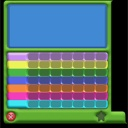
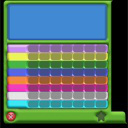
Lots of Aesthetic Tweaks (See Desc)
* Zap gags no longer intersect
* Shock animations for cogs
* Fixed toon details panel
* Fixed quota text priority in SuitPage

diff --git a/toontown/battle/MovieZap.py b/toontown/battle/MovieZap.py
@@ -251,7 +251,7 @@ def __doJoybuzzer(zap, delay, fShowStun):
     if hp > 0:
         tracks.append(__getSplashTrack(targetPoint, scale, tSprayStarts + dSprayScale, battle))
     if hp > 0 or delay <= 0:
-        tracks.append(__getSuitTrack(suit, tContact, tSuitDodges, hp, hpbonus, kbbonus, 'rake-react', died, leftSuits, rightSuits, battle, toon, fShowStun, revived=revived))
+        tracks.append(__getSuitTrack(suit, tContact, tSuitDodges, hp, hpbonus, kbbonus, 'shock', died, leftSuits, rightSuits, battle, toon, fShowStun, revived=revived))
     return tracks
 
 
@@ -307,7 +307,7 @@ def __doRug(zap, delay, fShowStun):
     if hp > 0:
         tracks.append(__getSplashTrack(targetPoint, scale, tSpray + dSprayScale, battle))
     if hp > 0 or delay <= 0:
-        tracks.append(__getSuitTrack(suit, tContact, tSuitDodges, hp, hpbonus, kbbonus, 'rake-react', died, leftSuits, rightSuits, battle, toon, fShowStun, revived=revived))
+        tracks.append(__getSuitTrack(suit, tContact, tSuitDodges, hp, hpbonus, kbbonus, 'shock', died, leftSuits, rightSuits, battle, toon, fShowStun, revived=revived))
     return tracks
 
 
@@ -367,7 +367,7 @@ def __doBalloon(zap, delay, fShowStun):
     if hp > 0:
         tracks.append(__getSplashTrack(targetPoint, 0.3, tSpray + dSprayScale, battle))
     if hp > 0 or delay <= 0:
-        tracks.append(__getSuitTrack(suit, tContact, tSuitDodges, hp, hpbonus, kbbonus, 'rake-react', died, leftSuits, rightSuits, battle, toon, fShowStun, revived=revived))
+        tracks.append(__getSuitTrack(suit, tContact, tSuitDodges, hp, hpbonus, kbbonus, 'shock', died, leftSuits, rightSuits, battle, toon, fShowStun, revived=revived))
     return tracks
 
 
@@ -396,7 +396,7 @@ def __doBattery(zap, delay, fShowStun):
     scale = 0.3
     tAppearDelay = 0.7
     dHoseHold = 0.7
-    midPos = Point3(0, 0, 0)
+    midPos = Point3(toon.getX(battle)*.5, 0, 0)
     runDur = 1
     tSprayDelay = 2
     tSpray = 1
@@ -425,7 +425,7 @@ def __doBattery(zap, delay, fShowStun):
     if hp > 0:
         tracks.append(__getSplashTrack(targetPoint, 0.4, 2.7, battle, splashHold=1.5))
     if hp > 0 or delay <= 0:
-        tracks.append(__getSuitTrack(suit, tContact, tSuitDodges, hp, hpbonus, kbbonus, 'rake-react', died, leftSuits, rightSuits, battle, toon, fShowStun, revived=revived))
+        tracks.append(__getSuitTrack(suit, tContact, tSuitDodges, hp, hpbonus, kbbonus, 'shock', died, leftSuits, rightSuits, battle, toon, fShowStun, revived=revived))
     return tracks
 
 
@@ -455,7 +455,7 @@ def __doTazer(zap, delay, fShowStun):
     scale = 0.3
     tAppearDelay = 0.7
     dHoseHold = 0.7
-    midPos = Point3(0, 0, 0)
+    midPos = Point3(toon.getX(battle)*.5, 0, 0)
     runDur = 1
     tSprayDelay = 2
     tSpray = 1
@@ -484,7 +484,7 @@ def __doTazer(zap, delay, fShowStun):
     if hp > 0:
         tracks.append(__getSplashTrack(targetPoint, 0.4, 2.7, battle, splashHold=1.5))
     if hp > 0 or delay <= 0:
-        tracks.append(__getSuitTrack(suit, tContact, tSuitDodges, hp, hpbonus, kbbonus, 'rake-react', died, leftSuits, rightSuits, battle, toon, fShowStun, revived=revived))
+        tracks.append(__getSuitTrack(suit, tContact, tSuitDodges, hp, hpbonus, kbbonus, 'shock', died, leftSuits, rightSuits, battle, toon, fShowStun, revived=revived))
     return tracks
 
 
@@ -525,7 +525,7 @@ def __doTesla(zap, delay, fShowStun):
     toonTrack = Sequence(Func(MovieUtil.showProps, buttons, hands), Func(toon.headsUp, battle, suitPos), ActorInterval(toon, 'pushbutton'), Func(MovieUtil.removeProps, buttons), Func(toon.loop, 'neutral'), Func(toon.setHpr, battle, origHpr))
     tracks.append(toonTrack)
     coil = globalPropPool.getProp('tesla')
-    coilPos = Point3(0, 0, 0)
+    coilPos = Point3(toon.getX(), 2, 0)
     coilHpr = Point3(0, 0, 0)
     propTrack = Sequence()
     propTrack.append(Func(coil.show))
@@ -551,7 +551,7 @@ def __doTesla(zap, delay, fShowStun):
     if hp > 0:
         tracks.append(__getSplashTrack(targetPoint, 0.4, 2.7, battle, splashHold=1.5))
     if hp > 0 or delay <= 0:
-        tracks.append(__getSuitTrack(suit, tContact, tSuitDodges, hp, hpbonus, kbbonus, 'rake-react', died, leftSuits, rightSuits, battle, toon, fShowStun, revived=revived))
+        tracks.append(__getSuitTrack(suit, tContact, tSuitDodges, hp, hpbonus, kbbonus, 'shock', died, leftSuits, rightSuits, battle, toon, fShowStun, revived=revived))
     return tracks
 
 
@@ -614,7 +614,7 @@ def __doLightning(zap, delay, fShowStun, uberClone = 0):
 
         tracks.append(getCloudTrack(cloud, suit, cloudPosPoint, scaleUpPoint, rainDelay, cloudHold))
         if hp > 0 or delay <= 0:
-            tracks.append(__getSuitTrack(suit, tContact, tSuitDodges, hp, hpbonus, kbbonus, 'rake-react', died, leftSuits, rightSuits, battle, toon, fShowStun, beforeStun=2.6, afterStun=2.3, revived=revived))
+            tracks.append(__getSuitTrack(suit, tContact, tSuitDodges, hp, hpbonus, kbbonus, 'shock', died, leftSuits, rightSuits, battle, toon, fShowStun, beforeStun=2.6, afterStun=2.3, revived=revived))
     return tracks
 
 

diff --git a/toontown/toon/ToonAvatarDetailPanel.py b/toontown/toon/ToonAvatarDetailPanel.py
@@ -204,13 +204,13 @@ class ToonAvatarDetailPanel(DirectFrame):
     def __updateTrackInfo(self):
         xOffset = -0.501814
         xSpacing = 0.1835
-        yOffset = 0.1
+        yOffset = 0.215
         ySpacing = -0.115
         inventory = self.avatar.inventory
         inventoryModels = loader.loadModel('phase_3.5/models/gui/inventory_gui')
         buttonModel = inventoryModels.find('**/InventoryButtonUp')
         for track in range(0, len(Tracks)):
-            DirectLabel(parent=self, relief=None, text=TextEncoder.upper(TTLocalizer.BattleGlobalTracks[track]), text_scale=TTLocalizer.TADPtrackLabel, text_align=TextNode.ALeft, pos=(-0.9, 0, TTLocalizer.TADtrackLabelPosZ + track * ySpacing))
+            DirectLabel(parent=self, relief=None, text=TextEncoder.upper(TTLocalizer.BattleGlobalTracks[track]), text_scale=TTLocalizer.TADPtrackLabel, text_align=TextNode.ALeft, pos=(-0.9, 0, yOffset + track * ySpacing))
             if self.avatar.hasTrackAccess(track):
                 curExp, nextExp = inventory.getCurAndNextExpValues(track)
                 for item in range(0, len(Levels[track])):

diff --git a/toontown/shtiker/SuitPage.py b/toontown/shtiker/SuitPage.py
@@ -381,6 +381,7 @@ class SuitPage(ShtikerPage.ShtikerPage):
         else:
             quota = str(COG_QUOTAS[1][index % SuitDNA.suitsPerDept])
         quotaLabel = DirectLabel(parent=panel, pos=(0.0, 0.0, -0.172), relief=None, state=DGG.DISABLED, text=TTLocalizer.SuitPageQuota % (count, quota), text_scale=0.045, text_fg=(0, 0, 0, 1), text_font=ToontownGlobals.getSuitFont())
+        quotaLabel.setBin("gui-popup", 50)
         panel.quotaLabel = quotaLabel
         return
 

diff --git a/toontown/suit/Suit.py b/toontown/suit/Suit.py
@@ -34,6 +34,7 @@ AllSuitsBattle = (('drop-react', 'anvil-drop'),
  ('landing', 'landing'),
  ('reach', 'walknreach'),
  ('rake-react', 'rake'),
+ ('shock', 'shock'),
  ('hypnotized', 'hypnotize'),
  ('lured', 'lured'),
  ('sad-neutral', 'lured'),
